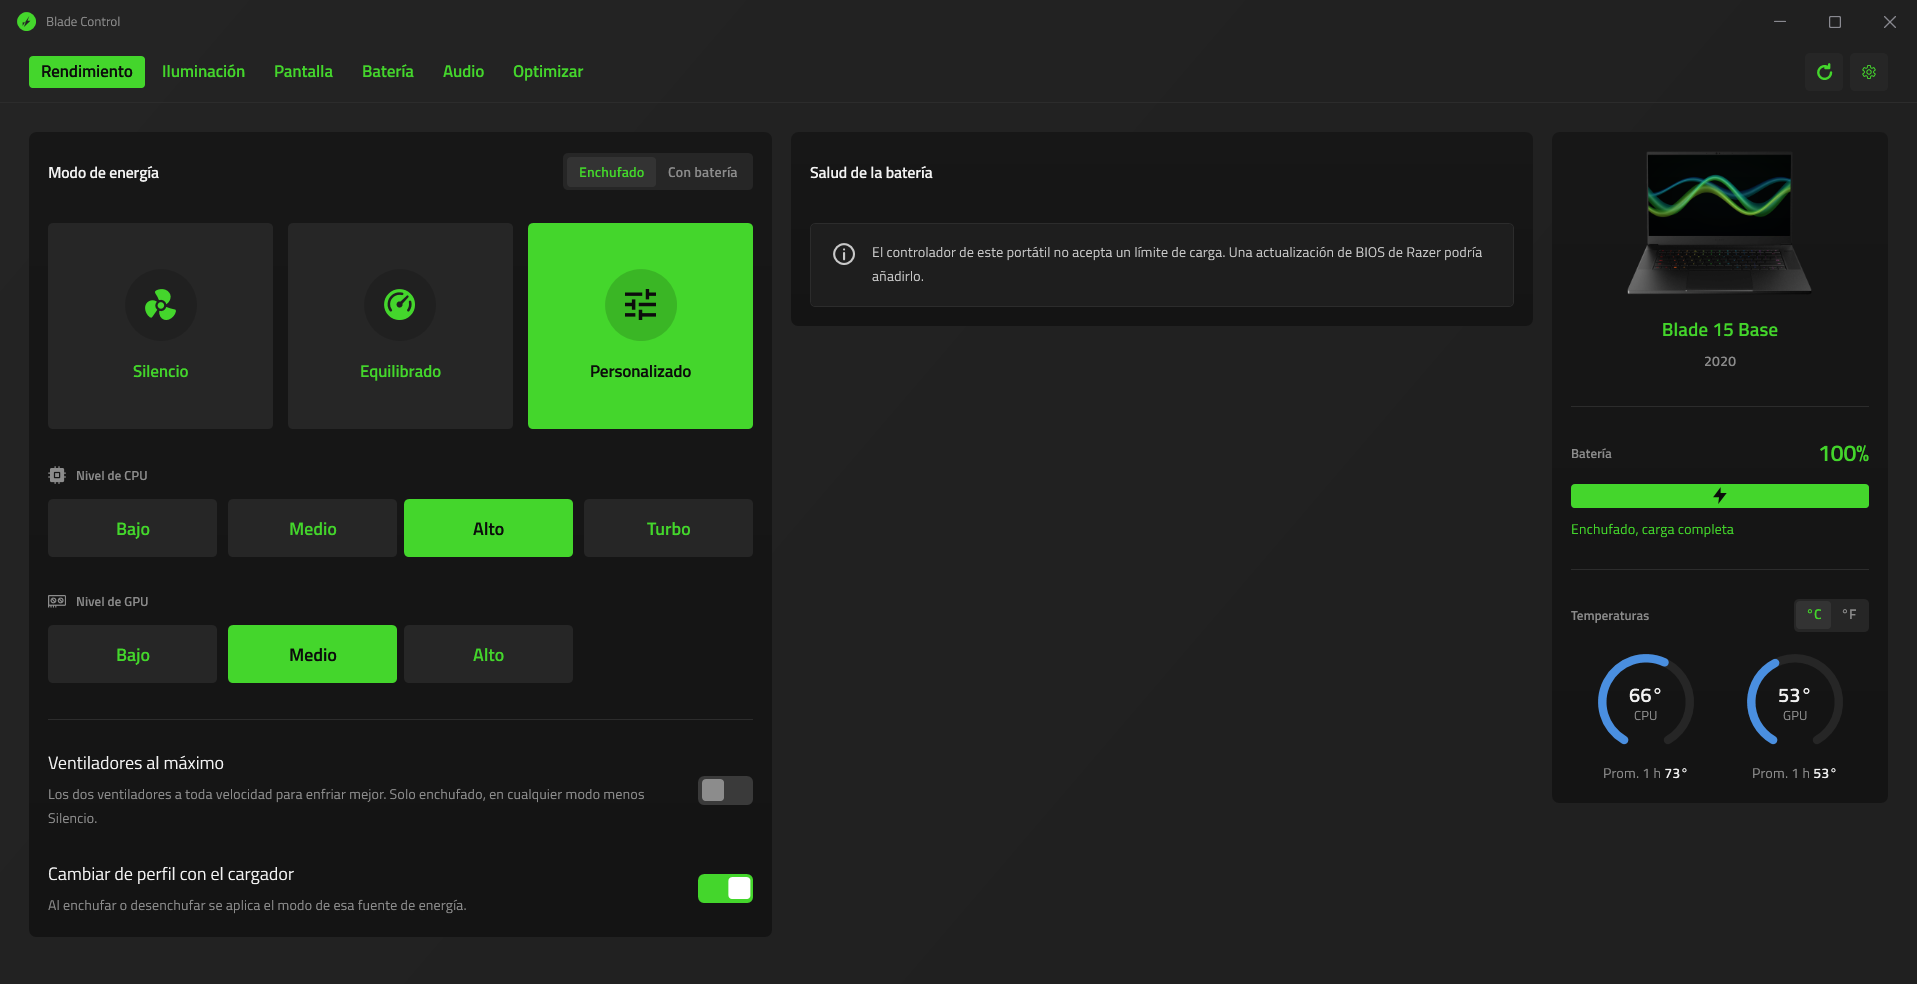
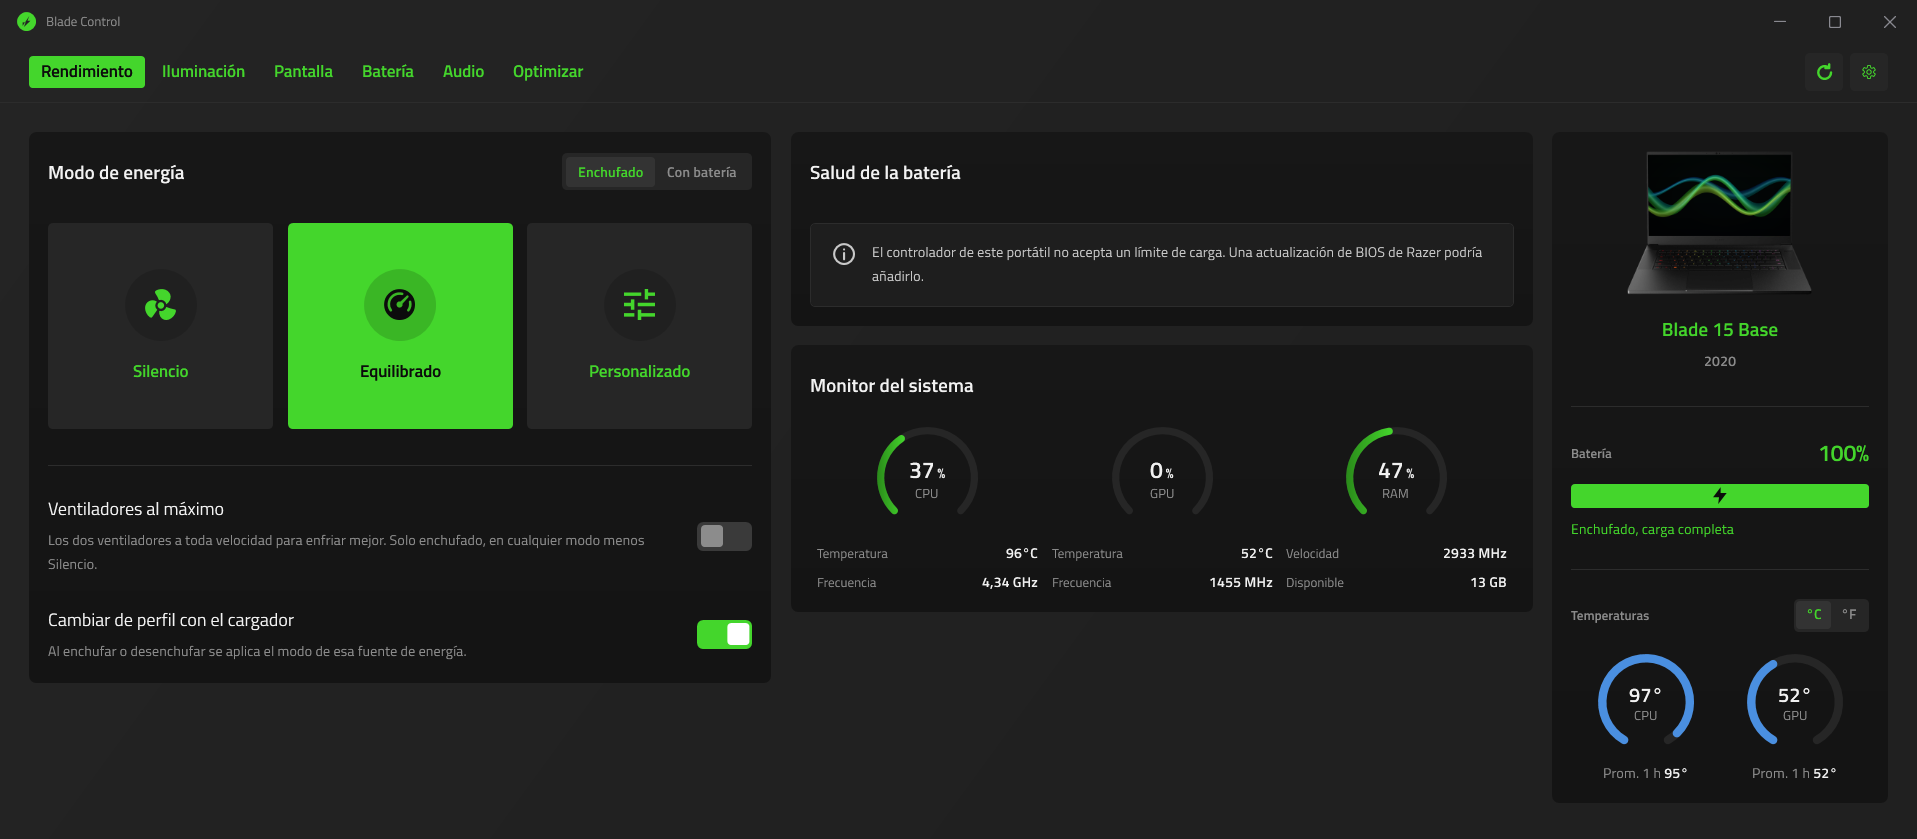
Adds Razer Helper's system monitor under Battery health
Three rings, three quarters of a circle filling in green, show how busy
the CPU, the GPU and the RAM are, with the CPU's and GPU's temperature and
clock and the RAM's speed and what is free under each. They are read once
a second, only while the Performance page is open. The ring gauge takes
its sweep as a setting for these three-quarter rings.

diff --git a/src/BladeControl/Views/PerformanceView.xaml b/src/BladeControl/Views/PerformanceView.xaml
@@ -90,45 +90,100 @@
             </StackPanel>
         </Border>
 
-        <!-- ===== Battery health ===== -->
-        <Border Style="{StaticResource Card}" VerticalAlignment="Top">
-            <StackPanel>
-                <!-- As tall as Power mode's header, so the two titles line up. -->
-                <Grid Margin="0,0,0,26" MinHeight="34">
-                    <TextBlock Style="{StaticResource Text.CardTitle}" Text="{ui:T 'Battery health'}" VerticalAlignment="Center" />
-                </Grid>
-
-                <!-- A controller that takes a charge limit. -->
-                <StackPanel Visibility="{Binding HasChargeLimit, Converter={StaticResource Visible}}">
-                    <Grid>
-                        <Grid.ColumnDefinitions>
-                            <ColumnDefinition Width="*" />
-                            <ColumnDefinition Width="Auto" />
-                        </Grid.ColumnDefinitions>
-                        <StackPanel Margin="0,0,24,0">
-                            <TextBlock Style="{StaticResource Text.Body}" Text="{ui:T 'Optimize battery charging'}" />
-                            <TextBlock Style="{StaticResource Text.Hint}" Margin="0,6,0,0"
-                                       Text="{ui:T 'Increase your battery\'s longevity by limiting its maximum charge.'}" />
-                        </StackPanel>
-                        <CheckBox Grid.Column="1" Style="{StaticResource Switch}" IsChecked="{Binding ChargeLimitOn}" />
+        <!-- Battery health, and the system monitor under it. -->
+        <StackPanel>
+            <!-- ===== Battery health ===== -->
+            <Border Style="{StaticResource Card}" VerticalAlignment="Top">
+                <StackPanel>
+                    <!-- As tall as Power mode's header, so the two titles line up. -->
+                    <Grid Margin="0,0,0,26" MinHeight="34">
+                        <TextBlock Style="{StaticResource Text.CardTitle}" Text="{ui:T 'Battery health'}" VerticalAlignment="Center" />
                     </Grid>
-
-                    <Border Style="{StaticResource Separator}" />
-
-                    <Slider x:Name="ChargeSlider" Style="{StaticResource ValueSlider}" IsEnabled="{Binding ChargeLimitOn}"
-                            Minimum="{Binding ChargeLimitMinimum, Mode=OneTime}" Maximum="{Binding ChargeLimitMaximum, Mode=OneTime}"
-                            Value="{Binding ChargeLimit}" PreviewMouseUp="ChargeSlider_Commit" KeyUp="ChargeSlider_Commit" />
-                    <Grid Margin="0,10,0,24">
-                        <TextBlock Style="{StaticResource Text.Scale}" Text="{Binding ChargeLimitMinimum, StringFormat={}{0}%}" />
-                        <TextBlock Style="{StaticResource Text.Scale}" Text="{Binding ChargeLimitMaximum, StringFormat={}{0}%}" HorizontalAlignment="Right" />
-                    </Grid>
-
-                    <ContentControl Style="{StaticResource SuccessBox}" Tag="{StaticResource Icon.Bolt}" Content="{ui:T 'Keeping your battery charged below 100% puts it under less stress, which helps reduce battery aging.'}" />
+    
+                    <!-- A controller that takes a charge limit. -->
+                    <StackPanel Visibility="{Binding HasChargeLimit, Converter={StaticResource Visible}}">
+                        <Grid>
+                            <Grid.ColumnDefinitions>
+                                <ColumnDefinition Width="*" />
+                                <ColumnDefinition Width="Auto" />
+                            </Grid.ColumnDefinitions>
+                            <StackPanel Margin="0,0,24,0">
+                                <TextBlock Style="{StaticResource Text.Body}" Text="{ui:T 'Optimize battery charging'}" />
+                                <TextBlock Style="{StaticResource Text.Hint}" Margin="0,6,0,0"
+                                           Text="{ui:T 'Increase your battery\'s longevity by limiting its maximum charge.'}" />
+                            </StackPanel>
+                            <CheckBox Grid.Column="1" Style="{StaticResource Switch}" IsChecked="{Binding ChargeLimitOn}" />
+                        </Grid>
+    
+                        <Border Style="{StaticResource Separator}" />
+    
+                        <Slider x:Name="ChargeSlider" Style="{StaticResource ValueSlider}" IsEnabled="{Binding ChargeLimitOn}"
+                                Minimum="{Binding ChargeLimitMinimum, Mode=OneTime}" Maximum="{Binding ChargeLimitMaximum, Mode=OneTime}"
+                                Value="{Binding ChargeLimit}" PreviewMouseUp="ChargeSlider_Commit" KeyUp="ChargeSlider_Commit" />
+                        <Grid Margin="0,10,0,24">
+                            <TextBlock Style="{StaticResource Text.Scale}" Text="{Binding ChargeLimitMinimum, StringFormat={}{0}%}" />
+                            <TextBlock Style="{StaticResource Text.Scale}" Text="{Binding ChargeLimitMaximum, StringFormat={}{0}%}" HorizontalAlignment="Right" />
+                        </Grid>
+    
+                        <ContentControl Style="{StaticResource SuccessBox}" Tag="{StaticResource Icon.Bolt}" Content="{ui:T 'Keeping your battery charged below 100% puts it under less stress, which helps reduce battery aging.'}" />
+                    </StackPanel>
+    
+                    <!-- A controller that only pretends to take one (the 2020 Blades). -->
+                    <ContentControl Style="{StaticResource NoteBox}" Visibility="{Binding HasChargeLimit, Converter={StaticResource Hidden}}" Content="{ui:T 'This laptop\'s controller does not accept a charge limit. A BIOS update from Razer may add it.'}" />
                 </StackPanel>
+            </Border>
 
-                <!-- A controller that only pretends to take one (the 2020 Blades). -->
-                <ContentControl Style="{StaticResource NoteBox}" Visibility="{Binding HasChargeLimit, Converter={StaticResource Hidden}}" Content="{ui:T 'This laptop\'s controller does not accept a charge limit. A BIOS update from Razer may add it.'}" />
-            </StackPanel>
-        </Border>
+            <!-- ===== System monitor: how busy the CPU, GPU and RAM are ===== -->
+            <Border Style="{StaticResource Card}" VerticalAlignment="Top">
+                <StackPanel>
+                    <Grid Margin="0,0,0,18" MinHeight="34">
+                        <TextBlock Style="{StaticResource Text.CardTitle}" Text="{ui:T 'System monitor'}" VerticalAlignment="Center" />
+                    </Grid>
+
+                    <ItemsControl ItemsSource="{Binding Monitor.Gauges}">
+                        <ItemsControl.ItemsPanel>
+                            <ItemsPanelTemplate>
+                                <UniformGrid Columns="3" />
+                            </ItemsPanelTemplate>
+                        </ItemsControl.ItemsPanel>
+                        <ItemsControl.ItemTemplate>
+                            <DataTemplate>
+                                <StackPanel Margin="6,0">
+                                    <!-- Three quarters of a circle filling in green, the percentage and the part inside. -->
+                                    <Grid Width="84" Height="84" HorizontalAlignment="Center">
+                                        <ui:RingGauge Fraction="{Binding Fraction}" Sweep="270" Thickness="6" TrackBrush="{StaticResource Brush.Tile}">
+                                            <ui:RingGauge.ArcBrush>
+                                                <LinearGradientBrush StartPoint="0,0" EndPoint="1,0">
+                                                    <GradientStop Color="#FF2A8A1A" Offset="0" />
+                                                    <GradientStop Color="{StaticResource Color.Accent}" Offset="1" />
+                                                </LinearGradientBrush>
+                                            </ui:RingGauge.ArcBrush>
+                                        </ui:RingGauge>
+                                        <StackPanel VerticalAlignment="Center" HorizontalAlignment="Center">
+                                            <TextBlock HorizontalAlignment="Center">
+                                                <Run Text="{Binding PercentText, Mode=OneWay}" FontSize="19" FontWeight="SemiBold" />
+                                                <Run Text="%" FontSize="12" FontWeight="SemiBold" />
+                                            </TextBlock>
+                                            <TextBlock Text="{Binding Name}" FontSize="11" Foreground="{StaticResource Brush.TextMuted}"
+                                                       HorizontalAlignment="Center" Margin="0,-3,0,0" />
+                                        </StackPanel>
+                                    </Grid>
+
+                                    <!-- Its two figures, label at the left and value at the right. -->
+                                    <Grid Margin="0,12,0,0">
+                                        <TextBlock Text="{Binding FirstLabel}" Style="{StaticResource Text.Scale}" FontWeight="Normal" VerticalAlignment="Center" />
+                                        <TextBlock Text="{Binding First}" FontSize="12" FontWeight="SemiBold" HorizontalAlignment="Right" />
+                                    </Grid>
+                                    <Grid Margin="0,6,0,0">
+                                        <TextBlock Text="{Binding SecondLabel}" Style="{StaticResource Text.Scale}" FontWeight="Normal" VerticalAlignment="Center" />
+                                        <TextBlock Text="{Binding Second}" FontSize="12" FontWeight="SemiBold" HorizontalAlignment="Right" />
+                                    </Grid>
+                                </StackPanel>
+                            </DataTemplate>
+                        </ItemsControl.ItemTemplate>
+                    </ItemsControl>
+                </StackPanel>
+            </Border>
+        </StackPanel>
     </ui:AdaptiveColumns>
 </UserControl>

diff --git a/src/BladeControl/ViewModels/SystemMonitorViewModel.cs b/src/BladeControl/ViewModels/SystemMonitorViewModel.cs
@@ -1,0 +1,157 @@
+using System.Globalization;
+using System.Windows.Threading;
+using BladeControl.Core.Diagnostics;
+using BladeControl.Core.Hardware;
+using BladeControl.Core.Localization;
+using BladeControl.Core.Services;
+using BladeControl.Services;
+using CommunityToolkit.Mvvm.ComponentModel;
+
+namespace BladeControl.ViewModels;
+
+/// <summary>One ring of the system monitor: how busy a part is, and two figures about it.</summary>
+internal sealed partial class UsageGauge(string name, string firstLabel, string secondLabel) : ObservableObject
+{
+    public string Name { get; } = name;
+
+    public string FirstLabel { get; } = firstLabel;
+
+    public string SecondLabel { get; } = secondLabel;
+
+    [ObservableProperty]
+    [NotifyPropertyChangedFor(nameof(Fraction), nameof(PercentText))]
+    private double? _percent;
+
+    /// <summary>How far round the ring goes, 0 to 1.</summary>
+    public double Fraction => Math.Clamp((Percent ?? 0) / 100, 0, 1);
+
+    public string PercentText => Percent is { } value ? Math.Round(value).ToString(CultureInfo.CurrentCulture) : HardwareStatsText.NoReading;
+
+    [ObservableProperty]
+    private string _first = HardwareStatsText.NoReading;
+
+    [ObservableProperty]
+    private string _second = HardwareStatsText.NoReading;
+}
+
+/// <summary>
+/// The system monitor under Battery health, as in Razer Helper: how busy the
+/// CPU, the GPU and the RAM are, with the CPU's and GPU's temperature and
+/// clock, and the RAM's speed and what is free. Read once a second, only while
+/// the Performance page is open.
+/// </summary>
+internal sealed class SystemMonitorViewModel : IDisposable
+{
+    private readonly AppServices _services;
+    private readonly CpuStatsReader _cpuReader = new();
+    private readonly GpuStatsReader _gpuReader = new();
+    private readonly DispatcherTimer _timer = new() { Interval = TimeSpan.FromSeconds(1) };
+    private Task _read = Task.CompletedTask;
+    private int? _memoryMhz;
+    private bool _memoryMhzRead;
+
+    public SystemMonitorViewModel(AppServices services)
+    {
+        _services = services;
+        Gauges =
+        [
+            new UsageGauge("CPU", L.T("Temperature"), L.T("Frequency")),
+            new UsageGauge("GPU", L.T("Temperature"), L.T("Frequency")),
+            new UsageGauge("RAM", L.T("Speed"), L.T("Available"))
+        ];
+
+        _timer.Tick += (_, _) => StartRead();
+    }
+
+    public IReadOnlyList<UsageGauge> Gauges { get; }
+
+    /// <summary>Reads now and once a second; the CPU's first read only primes its counters.</summary>
+    public void Start()
+    {
+        StartRead();
+        _timer.Start();
+    }
+
+    public void Stop() => _timer.Stop();
+
+    public void Dispose()
+    {
+        _timer.Stop();
+        _read.ContinueWith(_ =>
+        {
+            _cpuReader.Dispose();
+            _gpuReader.Dispose();
+        }, TaskScheduler.Default);
+    }
+
+    private async void StartRead()
+    {
+        if (!_read.IsCompleted)
+            return;
+
+        var read = Task.Run(() =>
+        {
+            if (!_memoryMhzRead)
+            {
+                _memoryMhz = SystemInfoReader.ReadMemoryModules().Mhz;
+                _memoryMhzRead = true;
+            }
+
+            // The CPU's temperature comes from the laptop's controller, the same reading the panel shows.
+            double? cpuCelsius = null;
+
+            try
+            {
+                cpuCelsius = _services.EcTemperatures.Read().CpuCelsius;
+            }
+            catch (Exception exception)
+            {
+                AppLog.Error("Could not read the CPU temperature.", exception);
+            }
+
+            return (Cpu: _cpuReader.Read(), CpuCelsius: cpuCelsius, Gpu: _gpuReader.Read(), Memory: SystemInfoReader.ReadMemory());
+        });
+
+        _read = read;
+
+        try
+        {
+            var (cpu, cpuCelsius, gpu, memory) = await read;
+            Show(cpu, cpuCelsius, gpu, memory);
+        }
+        catch (Exception exception)
+        {
+            AppLog.Error("Could not read the system monitor.", exception);
+        }
+    }
+
+    private void Show(CpuStats cpu, double? cpuCelsius, GpuStats gpu, MemoryUsage? memory)
+    {
+        var culture = CultureInfo.CurrentCulture;
+        var (cpuGauge, gpuGauge, ramGauge) = (Gauges[0], Gauges[1], Gauges[2]);
+
+        cpuGauge.Percent = cpu.UsagePercent ?? cpuGauge.Percent;
+        cpuGauge.First = HardwareStatsText.Celsius(cpuCelsius);
+        cpuGauge.Second = HardwareStatsText.Gigahertz(cpu.CurrentMhz, culture);
+
+        if (gpu.Asleep)
+        {
+            gpuGauge.Percent = 0;
+            gpuGauge.First = HardwareStatsText.NoReading;
+            gpuGauge.Second = L.T("Asleep");
+        }
+        else
+        {
+            gpuGauge.Percent = gpu.UsagePercent ?? gpuGauge.Percent;
+            gpuGauge.First = HardwareStatsText.Celsius(gpu.Celsius);
+            gpuGauge.Second = HardwareStatsText.Megahertz(gpu.CoreMhz);
+        }
+
+        if (memory is { TotalBytes: > 0 } ram)
+        {
+            ramGauge.Percent = 100.0 * (ram.TotalBytes - ram.AvailableBytes) / ram.TotalBytes;
+            ramGauge.First = HardwareStatsText.Megahertz(_memoryMhz);
+            ramGauge.Second = SystemInfoText.Size(ram.AvailableBytes, culture);
+        }
+    }
+}

diff --git a/src/BladeControl/UI/RingGauge.cs b/src/BladeControl/UI/RingGauge.cs
@@ -26,9 +26,18 @@ public sealed class RingGauge : FrameworkElement
     public static readonly DependencyProperty ThicknessProperty = DependencyProperty.Register(
         nameof(Thickness), typeof(double), typeof(RingGauge), new FrameworkPropertyMetadata(4.0, FrameworkPropertyMetadataOptions.AffectsRender));
 
-    // The ring is open at the bottom: 300 degrees of it can fill.
-    private const double Sweep = 300;
-    private const double StartAngle = 120; // Bottom left, clockwise from three o'clock.
+    public static readonly DependencyProperty SweepProperty = DependencyProperty.Register(
+        nameof(Sweep), typeof(double), typeof(RingGauge), new FrameworkPropertyMetadata(300.0, FrameworkPropertyMetadataOptions.AffectsRender));
+
+    /// <summary>How much of the circle the ring covers, open at the bottom: 300 degrees by default, 270 for three quarters.</summary>
+    public double Sweep
+    {
+        get => (double)GetValue(SweepProperty);
+        set => SetValue(SweepProperty, value);
+    }
+
+    // Bottom left, clockwise from three o'clock, so the gap is centred at the bottom.
+    private double StartAngle => 90 + (360 - Sweep) / 2;
 
     public double Fraction
     {

diff --git a/src/BladeControl/App.xaml.cs b/src/BladeControl/App.xaml.cs
@@ -75,6 +75,7 @@ public partial class App : Application
 
         _ = _viewModel.Performance.StartAsync();
         _viewModel.Device.Start();
+        _viewModel.Performance.Monitor.Start(); // The first page is Performance.
 
         // "--screenshot file.png [page] [width] [custom] [scrolled]": draws the window into a picture a few
         // seconds after it opens, then closes. For the README and for checking
@@ -181,6 +182,7 @@ public partial class App : Application
         _viewModel?.Performance.TurnOffMaxFanBeforeExit();
         _viewModel?.Lighting.Shutdown();
         _viewModel?.Optimize.Dispose();
+        _viewModel?.Performance.Monitor.Dispose();
         _viewModel?.Device.Stop();
         _services?.Dispose();
         _singleInstance?.Dispose();

diff --git a/src/BladeControl/ViewModels/PerformanceViewModel.cs b/src/BladeControl/ViewModels/PerformanceViewModel.cs
@@ -33,6 +33,7 @@ internal sealed partial class PerformanceViewModel : ObservableObject
     {
         _services = services;
         _report = report;
+        Monitor = new SystemMonitorViewModel(services);
 
         _profiles = new Dictionary<bool, PowerProfile>
         {
@@ -51,6 +52,9 @@ internal sealed partial class PerformanceViewModel : ObservableObject
         _silentTimer.Tick += (_, _) => _services.SilentBoost.Recheck();
         _silentTimer.Start();
     }
+
+    /// <summary>The system monitor, under Battery health.</summary>
+    public SystemMonitorViewModel Monitor { get; }
 
     // ===== What the page shows =====
 

diff --git a/src/BladeControl/ViewModels/MainViewModel.cs b/src/BladeControl/ViewModels/MainViewModel.cs
@@ -92,6 +92,11 @@ internal sealed partial class MainViewModel : ObservableObject
     {
         Lighting.SetPageOpen(value == AppPage.Lighting);
 
+        if (value == AppPage.Performance)
+            Performance.Monitor.Start();
+        else
+            Performance.Monitor.Stop();
+
         if (value == AppPage.Optimize)
             _ = Optimize.RefreshAsync();
         else if (value == AppPage.Settings)
